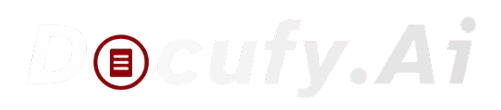
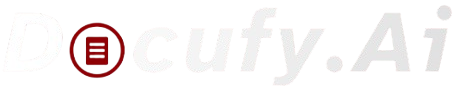
changes

diff --git a/client/task/src/components/Navbar.css b/client/task/src/components/Navbar.css
@@ -19,6 +19,8 @@
   height: 50px;
   cursor: pointer;
   transition: transform 0.2s ease-in-out;
+  position: relative;
+  right: 10px;
 }
 
 .nb-logo:hover {
@@ -143,7 +145,8 @@
   }
 
   .nb-logo {
-      height: 40px;
+      height: 35px;
+
   }
 
   .nb-mobile-menu {
